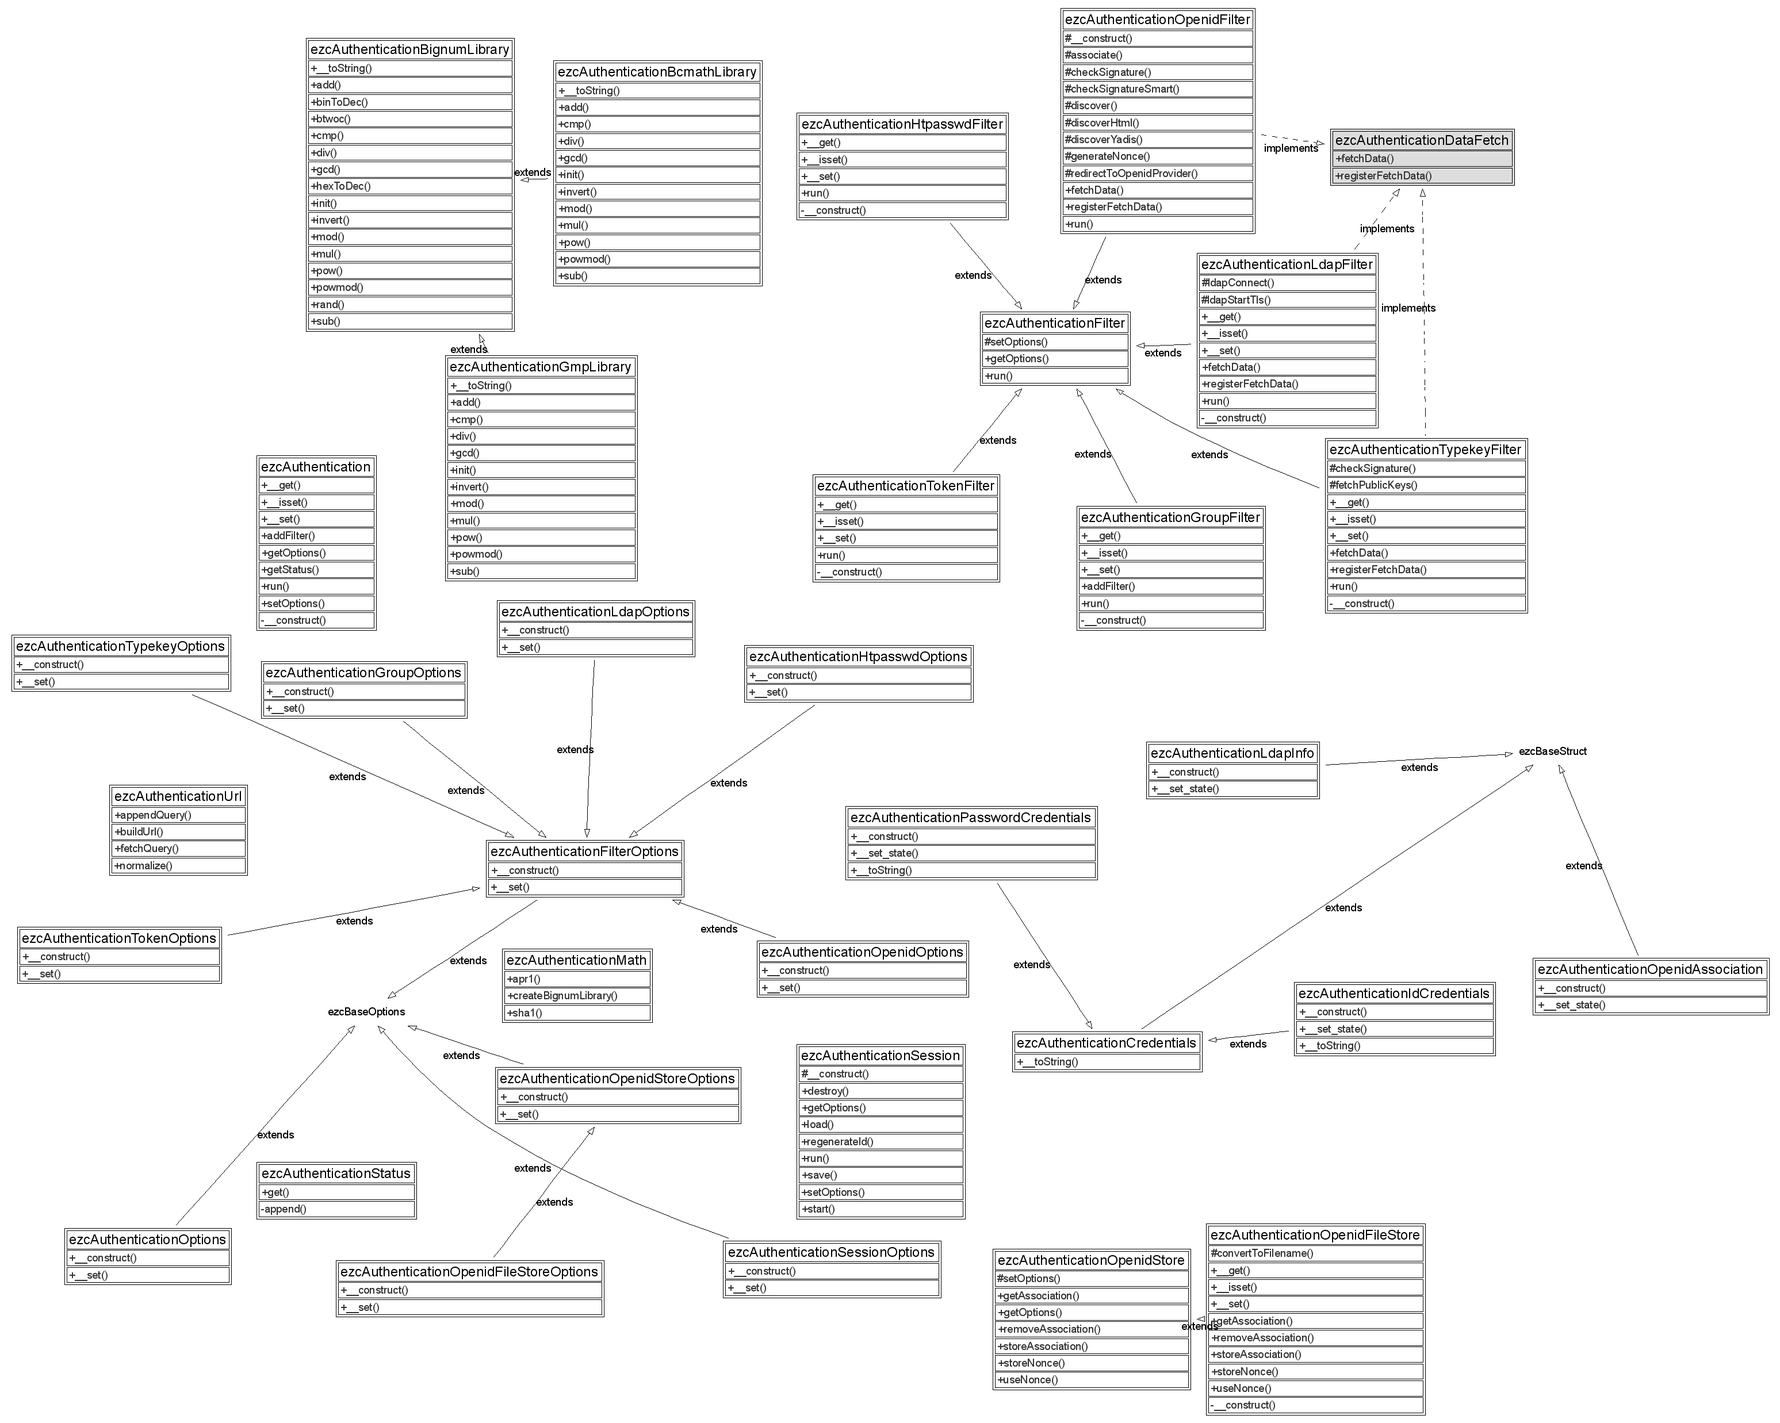
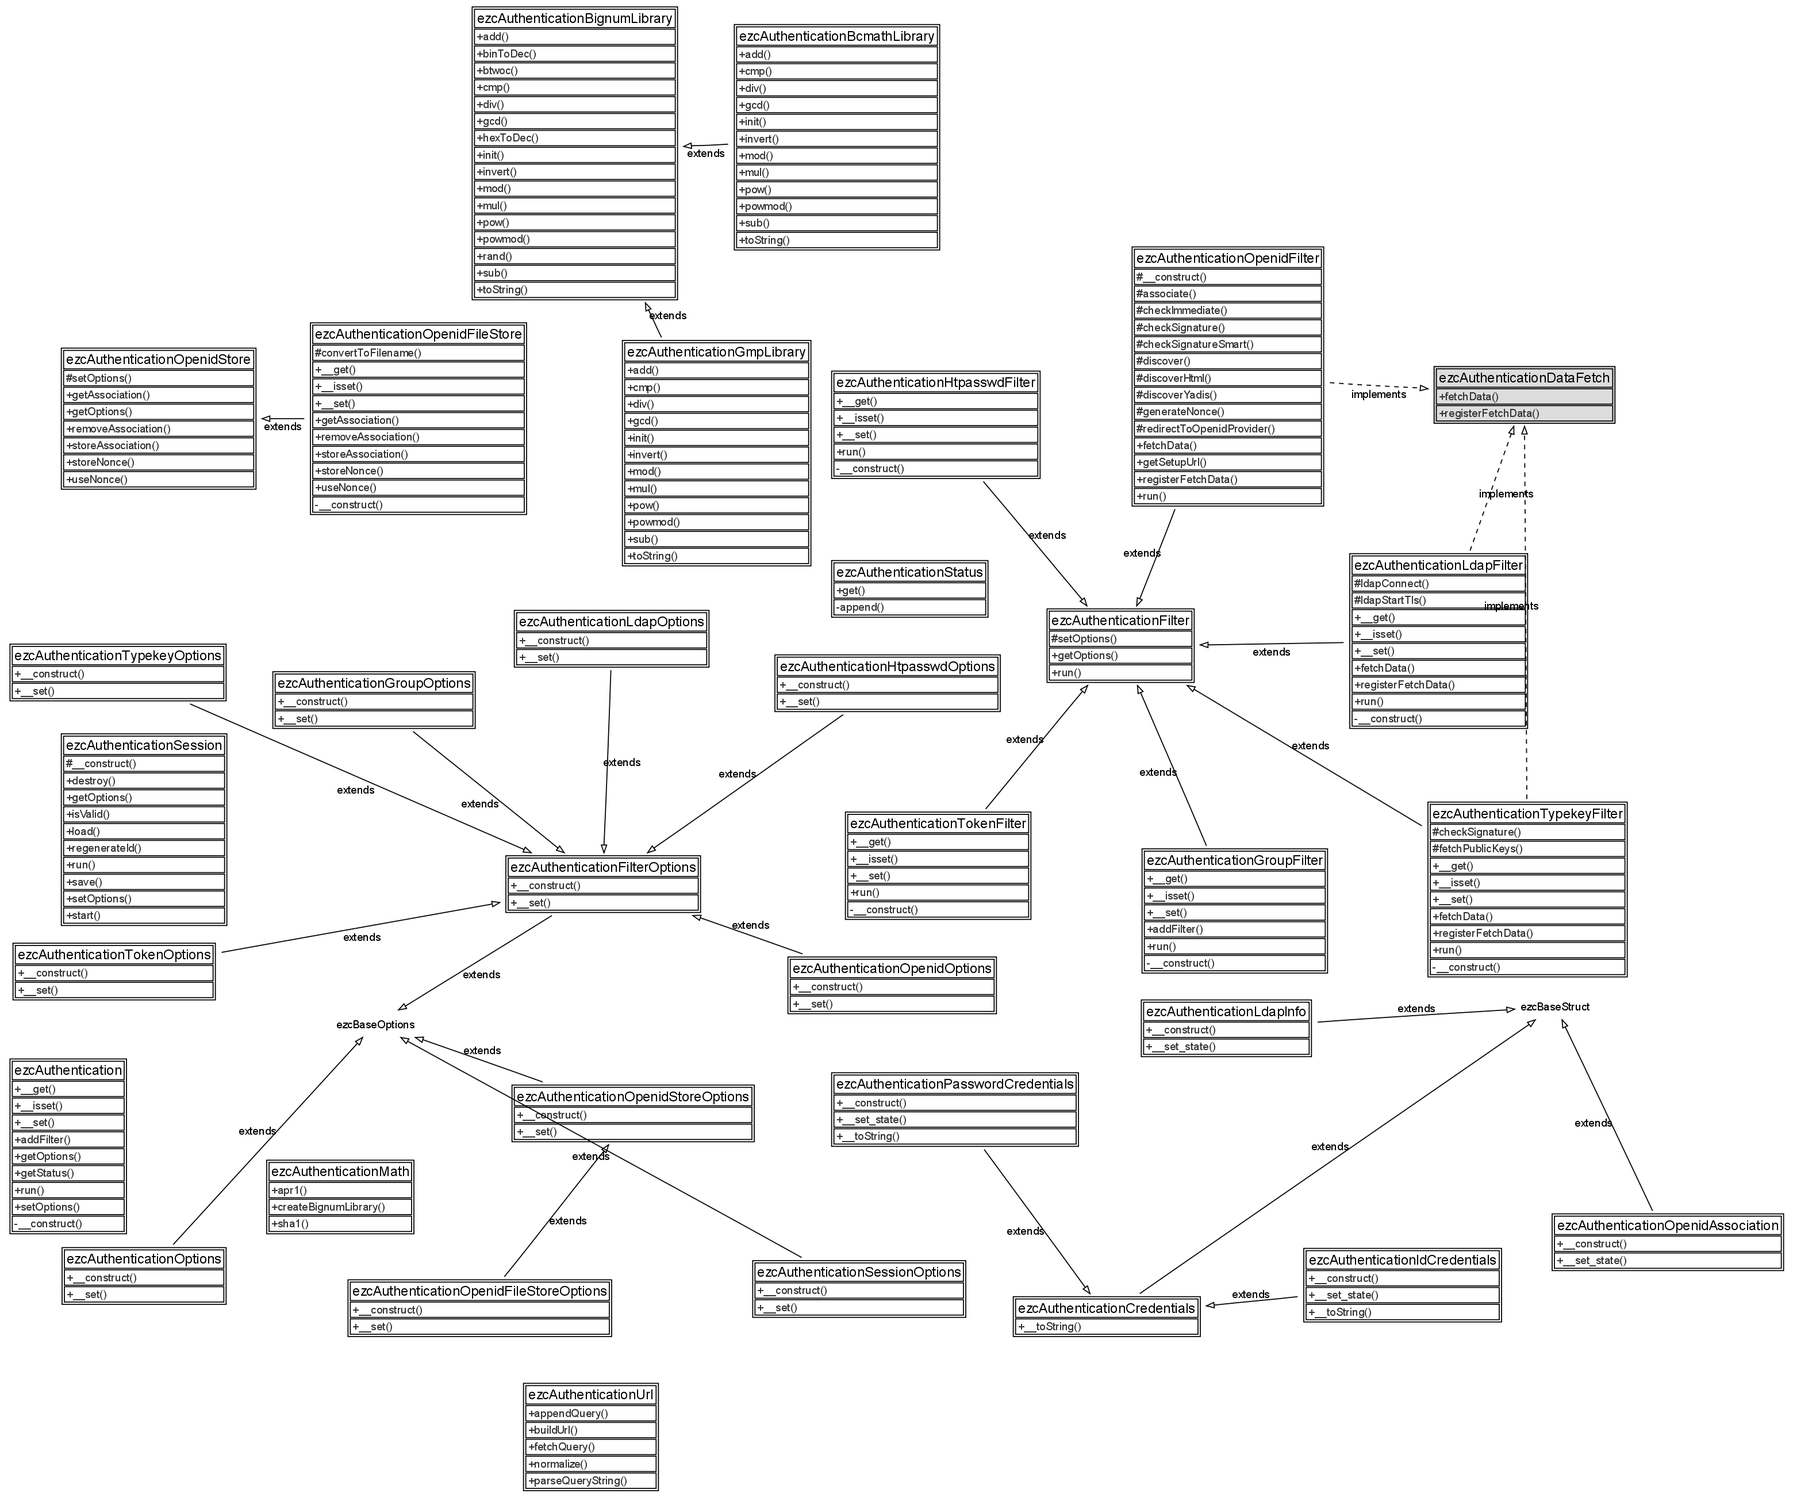
- Fixed issue #13810: Added different exception classes for different cases.
git-svn-id: https://svn.apache.org/repos/asf/incubator/zetacomponents/trunk@976466 13f79535-47bb-0310-9956-ffa450edef68

diff --git a/Authentication/src/authentication_autoload.php b/Authentication/src/authentication_autoload.php
@@ -10,43 +10,48 @@
  */
 
 return array(
-    'ezcAuthenticationException'              => 'Authentication/exceptions/authentication_exception.php',
-    'ezcAuthenticationLdapException'          => 'Authentication/exceptions/ldap_exception.php',
-    'ezcAuthenticationOpenidException'        => 'Authentication/exceptions/openid_exception.php',
-    'ezcAuthenticationTypekeyException'       => 'Authentication/exceptions/typekey_exception.php',
-    'ezcAuthenticationBignumLibrary'          => 'Authentication/math/bignum_library.php',
-    'ezcAuthenticationCredentials'            => 'Authentication/credentials/credentials.php',
-    'ezcAuthenticationDataFetch'              => 'Authentication/interfaces/data_fetch.php',
-    'ezcAuthenticationFilter'                 => 'Authentication/interfaces/authentication_filter.php',
-    'ezcAuthenticationFilterOptions'          => 'Authentication/options/filter_options.php',
-    'ezcAuthenticationOpenidStore'            => 'Authentication/filters/openid/openid_store.php',
-    'ezcAuthenticationOpenidStoreOptions'     => 'Authentication/options/openid_store_options.php',
-    'ezcAuthentication'                       => 'Authentication/authentication.php',
-    'ezcAuthenticationBcmathLibrary'          => 'Authentication/math/bcmath_library.php',
-    'ezcAuthenticationGmpLibrary'             => 'Authentication/math/gmp_library.php',
-    'ezcAuthenticationGroupFilter'            => 'Authentication/filters/group/group_filter.php',
-    'ezcAuthenticationGroupOptions'           => 'Authentication/options/group_options.php',
-    'ezcAuthenticationHtpasswdFilter'         => 'Authentication/filters/htpasswd/htpasswd_filter.php',
-    'ezcAuthenticationHtpasswdOptions'        => 'Authentication/options/htpasswd_options.php',
-    'ezcAuthenticationIdCredentials'          => 'Authentication/credentials/id_credentials.php',
-    'ezcAuthenticationLdapFilter'             => 'Authentication/filters/ldap/ldap_filter.php',
-    'ezcAuthenticationLdapInfo'               => 'Authentication/filters/ldap/ldap_info.php',
-    'ezcAuthenticationLdapOptions'            => 'Authentication/options/ldap_options.php',
-    'ezcAuthenticationMath'                   => 'Authentication/math/math.php',
-    'ezcAuthenticationOpenidAssociation'      => 'Authentication/filters/openid/openid_association.php',
-    'ezcAuthenticationOpenidFileStore'        => 'Authentication/filters/openid/openid_file_store.php',
-    'ezcAuthenticationOpenidFileStoreOptions' => 'Authentication/options/openid_file_store_options.php',
-    'ezcAuthenticationOpenidFilter'           => 'Authentication/filters/openid/openid_filter.php',
-    'ezcAuthenticationOpenidOptions'          => 'Authentication/options/openid_options.php',
-    'ezcAuthenticationOptions'                => 'Authentication/options/authentication_options.php',
-    'ezcAuthenticationPasswordCredentials'    => 'Authentication/credentials/password_credentials.php',
-    'ezcAuthenticationSession'                => 'Authentication/session/authentication_session.php',
-    'ezcAuthenticationSessionOptions'         => 'Authentication/options/session_options.php',
-    'ezcAuthenticationStatus'                 => 'Authentication/status/authentication_status.php',
-    'ezcAuthenticationTokenFilter'            => 'Authentication/filters/token/token_filter.php',
-    'ezcAuthenticationTokenOptions'           => 'Authentication/options/token_options.php',
-    'ezcAuthenticationTypekeyFilter'          => 'Authentication/filters/typekey/typekey_filter.php',
-    'ezcAuthenticationTypekeyOptions'         => 'Authentication/options/typekey_options.php',
-    'ezcAuthenticationUrl'                    => 'Authentication/url/url.php',
+    'ezcAuthenticationException'                         => 'Authentication/exceptions/authentication_exception.php',
+    'ezcAuthenticationOpenidException'                   => 'Authentication/exceptions/openid_exception.php',
+    'ezcAuthenticationTypekeyException'                  => 'Authentication/exceptions/typekey_exception.php',
+    'ezcAuthenticationGroupException'                    => 'Authentication/exceptions/group_exception.php',
+    'ezcAuthenticationLdapException'                     => 'Authentication/exceptions/ldap_exception.php',
+    'ezcAuthenticationOpenidModeNotSupportedException'   => 'Authentication/exceptions/openid_mode_exception.php',
+    'ezcAuthenticationOpenidRedirectException'           => 'Authentication/exceptions/openid_redirect_exception.php',
+    'ezcAuthenticationTypekeyPublicKeysInvalidException' => 'Authentication/exceptions/typekey_invalid_exception.php',
+    'ezcAuthenticationTypekeyPublicKeysMissingException' => 'Authentication/exceptions/typekey_missing_exception.php',
+    'ezcAuthenticationBignumLibrary'                     => 'Authentication/math/bignum_library.php',
+    'ezcAuthenticationCredentials'                       => 'Authentication/credentials/credentials.php',
+    'ezcAuthenticationDataFetch'                         => 'Authentication/interfaces/data_fetch.php',
+    'ezcAuthenticationFilter'                            => 'Authentication/interfaces/authentication_filter.php',
+    'ezcAuthenticationFilterOptions'                     => 'Authentication/options/filter_options.php',
+    'ezcAuthenticationOpenidStore'                       => 'Authentication/filters/openid/openid_store.php',
+    'ezcAuthenticationOpenidStoreOptions'                => 'Authentication/options/openid_store_options.php',
+    'ezcAuthentication'                                  => 'Authentication/authentication.php',
+    'ezcAuthenticationBcmathLibrary'                     => 'Authentication/math/bcmath_library.php',
+    'ezcAuthenticationGmpLibrary'                        => 'Authentication/math/gmp_library.php',
+    'ezcAuthenticationGroupFilter'                       => 'Authentication/filters/group/group_filter.php',
+    'ezcAuthenticationGroupOptions'                      => 'Authentication/options/group_options.php',
+    'ezcAuthenticationHtpasswdFilter'                    => 'Authentication/filters/htpasswd/htpasswd_filter.php',
+    'ezcAuthenticationHtpasswdOptions'                   => 'Authentication/options/htpasswd_options.php',
+    'ezcAuthenticationIdCredentials'                     => 'Authentication/credentials/id_credentials.php',
+    'ezcAuthenticationLdapFilter'                        => 'Authentication/filters/ldap/ldap_filter.php',
+    'ezcAuthenticationLdapInfo'                          => 'Authentication/filters/ldap/ldap_info.php',
+    'ezcAuthenticationLdapOptions'                       => 'Authentication/options/ldap_options.php',
+    'ezcAuthenticationMath'                              => 'Authentication/math/math.php',
+    'ezcAuthenticationOpenidAssociation'                 => 'Authentication/filters/openid/openid_association.php',
+    'ezcAuthenticationOpenidFileStore'                   => 'Authentication/filters/openid/openid_file_store.php',
+    'ezcAuthenticationOpenidFileStoreOptions'            => 'Authentication/options/openid_file_store_options.php',
+    'ezcAuthenticationOpenidFilter'                      => 'Authentication/filters/openid/openid_filter.php',
+    'ezcAuthenticationOpenidOptions'                     => 'Authentication/options/openid_options.php',
+    'ezcAuthenticationOptions'                           => 'Authentication/options/authentication_options.php',
+    'ezcAuthenticationPasswordCredentials'               => 'Authentication/credentials/password_credentials.php',
+    'ezcAuthenticationSession'                           => 'Authentication/session/authentication_session.php',
+    'ezcAuthenticationSessionOptions'                    => 'Authentication/options/session_options.php',
+    'ezcAuthenticationStatus'                            => 'Authentication/status/authentication_status.php',
+    'ezcAuthenticationTokenFilter'                       => 'Authentication/filters/token/token_filter.php',
+    'ezcAuthenticationTokenOptions'                      => 'Authentication/options/token_options.php',
+    'ezcAuthenticationTypekeyFilter'                     => 'Authentication/filters/typekey/typekey_filter.php',
+    'ezcAuthenticationTypekeyOptions'                    => 'Authentication/options/typekey_options.php',
+    'ezcAuthenticationUrl'                               => 'Authentication/url/url.php',
 );
 ?>

diff --git a/Authentication/src/filters/openid/openid_filter.php b/Authentication/src/filters/openid/openid_filter.php
@@ -330,6 +330,9 @@ class ezcAuthenticationOpenidFilter extends ezcAuthenticationFilter implements e
     /**
      * Runs the filter and returns a status code when finished.
      *
+     * @throws ezcAuthenticationOpenidModeNotSupportedException
+     *         if trying to authenticate with an unsupported OpenID mode
+     *
      * @param ezcAuthenticationIdCredentials $credentials Authentication credentials
      * @return int
      */
@@ -557,7 +560,7 @@ class ezcAuthenticationOpenidFilter extends ezcAuthenticationFilter implements e
                 return self::STATUS_CANCELLED;
 
             default:
-                throw new ezcAuthenticationOpenidException( "OpenID request not supported: 'openid_mode = {$mode}'." );
+                throw new ezcAuthenticationOpenidModeNotSupportedException( $mode );
         }
         return self::STATUS_SIGNATURE_INCORRECT;
     }
@@ -720,7 +723,7 @@ class ezcAuthenticationOpenidFilter extends ezcAuthenticationFilter implements e
      *      );
      * </code>
      *
-     * @throws ezcAuthenticationOpenidException
+     * @throws ezcAuthenticationOpenidRedirectException
      *         if redirection could not be performed
      * @param string $provider The OpenID provider (discovered in HTML or Yadis)
      * @param array(string=>string) $params OpenID parameters for checkid_setup
@@ -742,7 +745,7 @@ class ezcAuthenticationOpenidFilter extends ezcAuthenticationFilter implements e
         }
 
         // Normally the user should not see the following error because he was redirected
-        throw new ezcAuthenticationOpenidException( "Could not redirect to '{$redirect}'. Most probably your browser does not support redirection or JavaScript." );
+        throw new ezcAuthenticationOpenidRedirectException( $redirect );
     }
 
     /**

diff --git a/Authentication/src/filters/typekey/typekey_filter.php b/Authentication/src/filters/typekey/typekey_filter.php
@@ -413,8 +413,10 @@ class ezcAuthenticationTypekeyFilter extends ezcAuthenticationFilter implements 
      *   array( 'p' => p_val, 'g' => g_val, 'q' => q_val, 'pub_key' => pub_key_val )
      * </code>
      *
-     * @throws ezcAuthenticationTypekeyException
+     * @throws ezcAuthenticationTypekeyPublicKeysMissingException
      *         if the keys from the TypeKey public keys file could not be fetched
+     * @throws ezcAuthenticationTypekeyPublicKeysInvalidException
+     *         if the keys fetched from the TypeKey public keys file are invalid
      * @param string $file The public keys file or URL
      * @return array(string=>string)
      */
@@ -423,7 +425,7 @@ class ezcAuthenticationTypekeyFilter extends ezcAuthenticationFilter implements 
         $data = @file_get_contents( $file );
         if ( empty( $data ) )
         {
-            throw new ezcAuthenticationTypekeyException( "Could not fetch public keys from '{$file}'." );
+            throw new ezcAuthenticationTypekeyPublicKeysMissingException( "Could not fetch public keys from '{$file}'." );
         }
         $lines = explode( ' ', trim( $data ) );
         foreach ( $lines as $line )
@@ -431,7 +433,7 @@ class ezcAuthenticationTypekeyFilter extends ezcAuthenticationFilter implements 
             $val = explode( '=', $line );
             if ( count( $val ) < 2 )
             {
-                throw new ezcAuthenticationTypekeyException( "The data retrieved from '{$file}' is invalid." );
+                throw new ezcAuthenticationTypekeyPublicKeysInvalidException( "The data retrieved from '{$file}' is invalid." );
             }
             $keys[$val[0]] = $val[1];
         }

diff --git a/Authentication/src/filters/group/group_filter.php b/Authentication/src/filters/group/group_filter.php
@@ -376,7 +376,7 @@ class ezcAuthenticationGroupFilter extends ezcAuthenticationFilter
      * // the filters can also be added to the group with the constructor
      * </code>
      *
-     * @throws ezcAuthenticationException
+     * @throws ezcAuthenticationGroupException
      *         if the multipleCredentials option is enabled and a credentials
      *         object was not specified
      * @param ezcAuthenticationFilter $filter The authentication filter to add
@@ -390,7 +390,7 @@ class ezcAuthenticationGroupFilter extends ezcAuthenticationFilter
         {
             if ( $credentials === null )
             {
-                throw new ezcAuthenticationException( 'A credentials object must be specified for each filter when the multipleCredentials option is enabled.' );
+                throw new ezcAuthenticationGroupException( 'A credentials object must be specified for each filter when the multipleCredentials option is enabled.' );
             }
 
             $this->filters[] = array( $filter, $credentials );

diff --git a/Authentication/src/exceptions/openid_redirect_exception.php b/Authentication/src/exceptions/openid_redirect_exception.php
@@ -1,0 +1,30 @@
+<?php
+/**
+ * File containing the ezcAuthenticationOpenidRedirectException class.
+ *
+ * @copyright Copyright (C) 2005-2008 eZ systems as. All rights reserved.
+ * @license http://ez.no/licenses/new_bsd New BSD License
+ * @filesource
+ * @package Authentication
+ * @version //autogen//
+ */
+
+/**
+ * Thrown when the client could not be redirected in the OpenID authentication.
+ *
+ * @package Authentication
+ * @version //autogen//
+ */
+class ezcAuthenticationOpenidRedirectException extends ezcAuthenticationOpenidException
+{
+    /**
+     * Constructs a new ezcAuthenticationOpenidRedirectException concerning $url.
+     *
+     * @param string $url The URL where the client could not be redirected
+     */
+    public function __construct( $url )
+    {
+        parent::__construct( "Could not redirect to '{$url}'. Most probably your browser does not support redirection or JavaScript." );
+    }
+}
+?>

diff --git a/Authentication/src/exceptions/openid_mode_exception.php b/Authentication/src/exceptions/openid_mode_exception.php
@@ -1,0 +1,31 @@
+<?php
+/**
+ * File containing the ezcAuthenticationOpenidModeNotSupportedException class.
+ *
+ * @copyright Copyright (C) 2005-2008 eZ systems as. All rights reserved.
+ * @license http://ez.no/licenses/new_bsd New BSD License
+ * @filesource
+ * @package Authentication
+ * @version //autogen//
+ */
+
+/**
+ * Thrown when trying OpenID authentication with a mode which is not supported.
+ *
+ * @package Authentication
+ * @version //autogen//
+ */
+class ezcAuthenticationOpenidModeNotSupportedException extends ezcAuthenticationOpenidException
+{
+    /**
+     * Constructs a new ezcAuthenticationOpenidModeNotSupportedException with
+     * OpenID mode $mode.
+     *
+     * @param string $mode OpenID mode which is not supported
+     */
+    public function __construct( $mode )
+    {
+        parent::__construct( "OpenID request not supported: 'openid_mode = {$mode}'." );
+    }
+}
+?>

diff --git a/Authentication/src/exceptions/typekey_invalid_exception.php b/Authentication/src/exceptions/typekey_invalid_exception.php
@@ -1,0 +1,31 @@
+<?php
+/**
+ * File containing the ezcAuthenticationTypekeyPublicKeysInvalidException class.
+ *
+ * @copyright Copyright (C) 2005-2008 eZ systems as. All rights reserved.
+ * @license http://ez.no/licenses/new_bsd New BSD License
+ * @filesource
+ * @package Authentication
+ * @version //autogen//
+ */
+
+/**
+ * Thrown the public keys file contained invalid data in TypeKey authentication.
+ *
+ * @package Authentication
+ * @version //autogen//
+ */
+class ezcAuthenticationTypekeyPublicKeysInvalidException extends ezcAuthenticationTypekeyException
+{
+    /**
+     * Constructs a new ezcAuthenticationTypekeyPublicKeysInvalidException
+     * with error message $message.
+     *
+     * @param string $message Message to throw
+     */
+    public function __construct( $message )
+    {
+        parent::__construct( $message );
+    }
+}
+?>

diff --git a/Authentication/src/exceptions/typekey_missing_exception.php b/Authentication/src/exceptions/typekey_missing_exception.php
@@ -1,0 +1,31 @@
+<?php
+/**
+ * File containing the ezcAuthenticationTypekeyPublicKeysMissingException class.
+ *
+ * @copyright Copyright (C) 2005-2008 eZ systems as. All rights reserved.
+ * @license http://ez.no/licenses/new_bsd New BSD License
+ * @filesource
+ * @package Authentication
+ * @version //autogen//
+ */
+
+/**
+ * Thrown the public keys file could not be accessed in TypeKey authentication.
+ *
+ * @package Authentication
+ * @version //autogen//
+ */
+class ezcAuthenticationTypekeyPublicKeysMissingException extends ezcAuthenticationTypekeyException
+{
+    /**
+     * Constructs a new ezcAuthenticationTypekeyPublicKeysMissingException
+     * with error message $message.
+     *
+     * @param string $message Message to throw
+     */
+    public function __construct( $message )
+    {
+        parent::__construct( $message );
+    }
+}
+?>

diff --git a/Authentication/src/exceptions/group_exception.php b/Authentication/src/exceptions/group_exception.php
@@ -1,0 +1,31 @@
+<?php
+/**
+ * File containing the ezcAuthenticationGroupException class.
+ *
+ * @copyright Copyright (C) 2005-2008 eZ systems as. All rights reserved.
+ * @license http://ez.no/licenses/new_bsd New BSD License
+ * @filesource
+ * @package Authentication
+ * @version //autogen//
+ */
+
+/**
+ * Thrown when an error comes up with grouped filters authentication.
+ *
+ * @package Authentication
+ * @version //autogen//
+ */
+class ezcAuthenticationGroupException extends ezcAuthenticationException
+{
+    /**
+     * Constructs a new ezcAuthenticationGroupException with error message
+     * $message.
+     *
+     * @param string $message Message to throw
+     */
+    public function __construct( $message )
+    {
+        parent::__construct( $message );
+    }
+}
+?>
